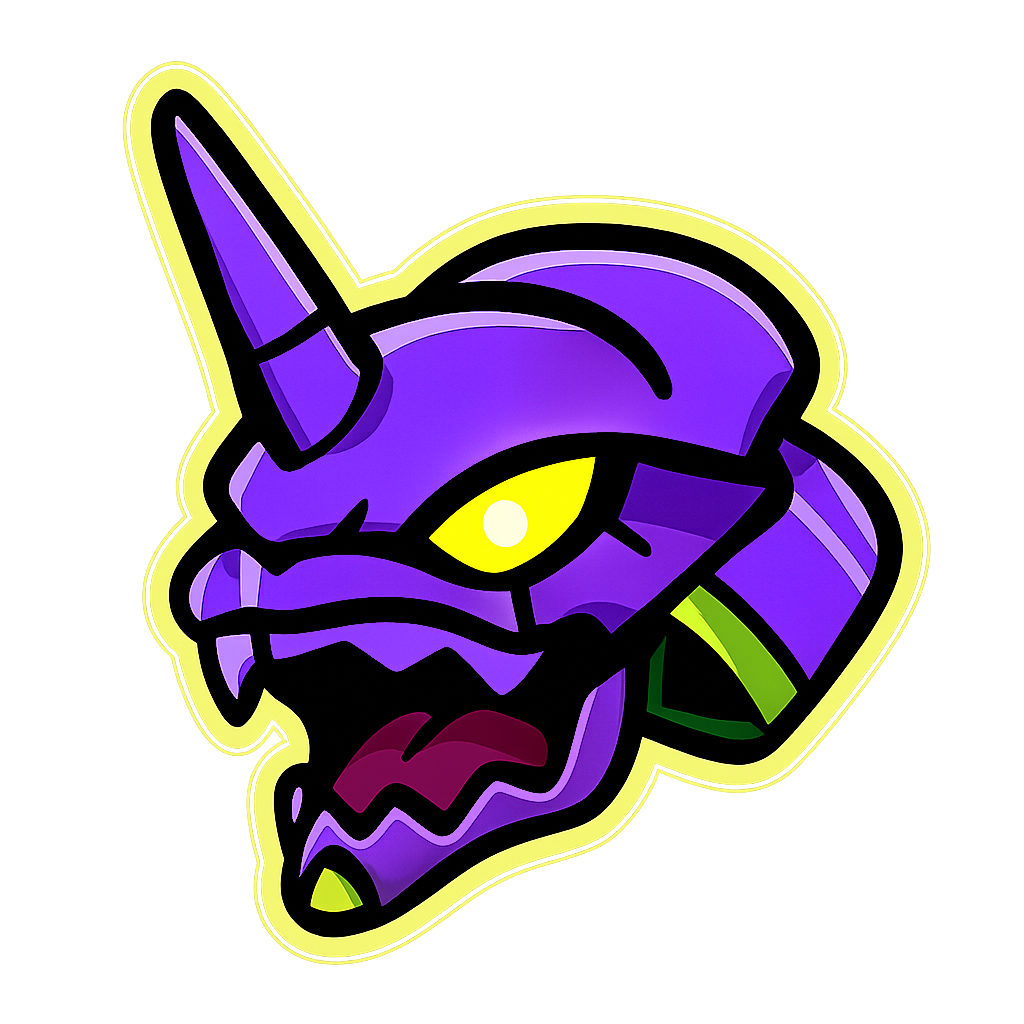
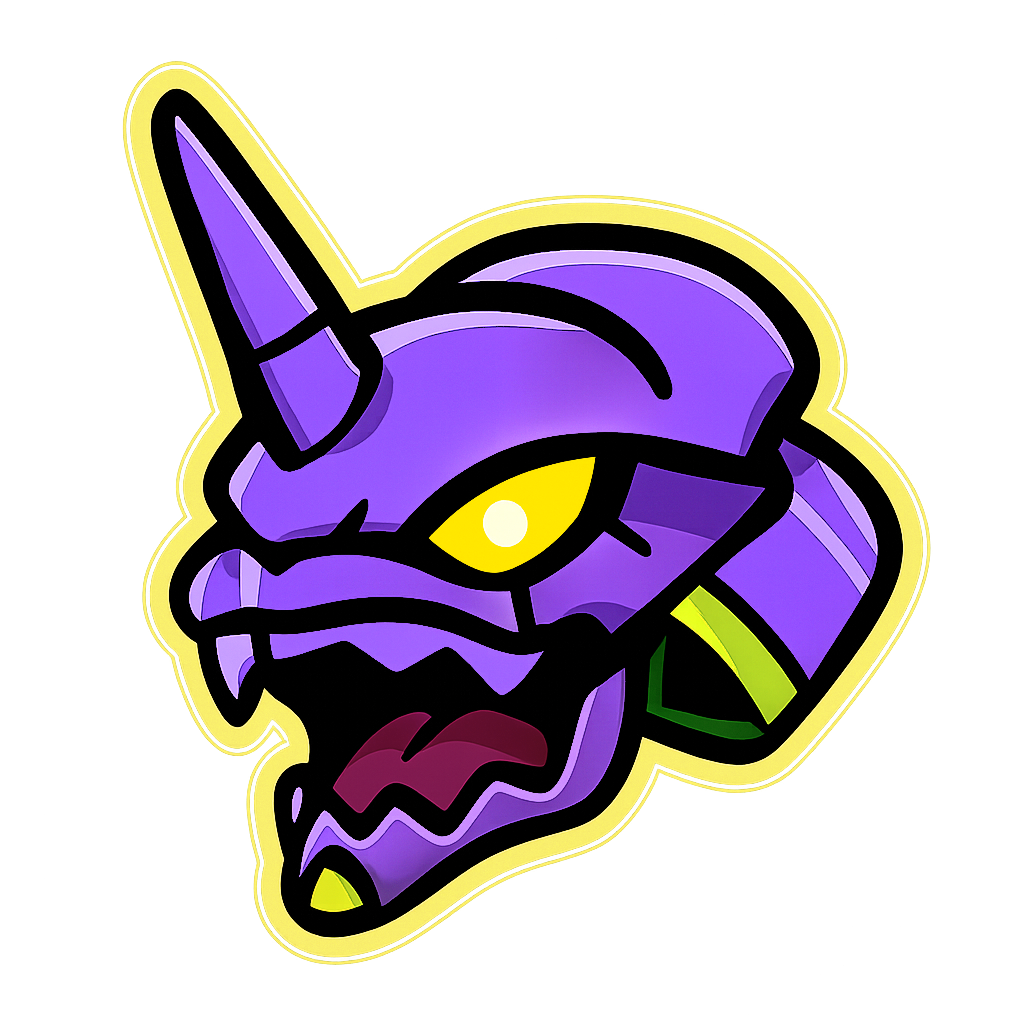
Match Eva b-frame colors to a-frame
Claude-Session: https://claude.ai/code/session_019QwctBLnb4UTXMJBnbargq

Changed region(s): [[0.1562, 0.125, 0.875, 0.7188], [0.2812, 0.6562, 0.625, 0.875]]

diff --git a/index.html b/index.html
@@ -1840,7 +1840,7 @@ const faceHTML = (e, who = 'suit') => FACE_ART[who][e] || FACE_ART.suit[e] || e;
 // 같은 그림이 여러 개 있어도 박자가 겹치지 않게 시작점을 흩뜨림
 // 그림을 다시 그려도 폰에 남은 옛 그림이 보이지 않게 주소에 버전을 붙임
 // 파일마다 내용이 바뀔 때만 새로 받도록 파일 해시를 붙임 (빌드할 때 채움)
-const ART_HASH = {"tile-gundam-a.png": "41a00219", "ind-school-a.png": "1b0fc977", "robot-cobot-cook-b.png": "3f739fa6", "tile-tool-a.png": "48c7dc89", "tile-made-a.png": "43e550a9", "ind-training-b.png": "0efc1d0b", "robot-qarm-a.png": "901f7afc", "tile-legs-b.png": "c0299b41", "tile-union-b.png": "b3a03a42", "face-cook-frown.png": "e01a4907", "face-cook-neutral.png": "71441525", "ind-battery-b.png": "6e2bd18d", "ind-fire-a.png": "a71484d3", "face-trump-neutral.png": "5aecac90", "tile-legs-a.png": "2faadad6", "face-worker-angry.png": "eb6b88ed", "ind-steel-a.png": "0f070238", "face-suitf-delight.png": "d729900f", "ind-steel-b.png": "e122612f", "ind-defense-b.png": "5aa959f1", "face-cook-angry.png": "50c65318", "ind-port-b.png": "6f5dc395", "tile-tf-a.png": "d2bc0939", "ind-factory-a.png": "909659fd", "tile-term-b.png": "fa8e5b3f", "face-neutral.png": "a9a959b5", "tile-wheel-a.png": "9e98ebac", "face-cook-smile.png": "be9219e0", "tile-korea-b.png": "1fcc2bd8", "face-trump-tear.png": "21d22245", "tile-auto-b.png": "bb58686e", "ind-material-b.png": "a8f27197", "tile-korea-a.png": "f7ec52b4", "tile-union-a.png": "d48507d4", "ind-auto-a.png": "9a8abf4f", "face-frown.png": "26865767", "robot-centaur-a.png": "a9e1e03b", "tile-auto-a.png": "e7100d25", "robot-cobot-cook-a.png": "2acb022c", "face-worker-tear.png": "940dcfc3", "ind-autoparts-b.png": "a5dbd76a", "face-suitf-angry.png": "5b24ceb5", "face-suitf-tear.png": "d0923069", "robot-centaur-b.png": "848f1932", "robot-mm-a.png": "e5da97cf", "ind-defense-a.png": "23a0651c", "robot-quad-a.png": "1e1384cf", "ind-autoparts-a.png": "26dcf7ce", "tile-eva-b.png": "ec3a9a4a", "face-cook-tear.png": "d529800c", "tile-gundam-b.png": "69722c17", "face-trump-delight.png": "e41c1f7d", "face-angry.png": "8542c3c5", "tile-floor-b.png": "7bfb4d09", "face-suitf-smile.png": "2bfa949d", "ind-material-a.png": "2c67685e", "tile-term-a.png": "f86a988f", "tile-eva-a.png": "48055f29", "tile-hum-a.png": "cdc85433", "ind-port-a.png": "0e5340b9", "ind-police-a.png": "717025fa", "wheel-tilt-ref.png": "4a1e31a2", "robot-cobot-a.png": "bb066d5e", "face-trump-angry.png": "6fc0cf6d", "tile-wheel-b.png": "df5d2104", "face-worker-neutral.png": "f4f1ff96", "robot-amr-a.png": "21455470", "face-delight.png": "4b63238d", "face-trump-frown.png": "4102f723", "robot-mm-b.png": "41cc89c7", "ind-fire-b.png": "c530534e", "ind-police-b.png": "750b1169", "ind-ess-b.png": "c7fac005", "ind-training-a.png": "a9fe00e5", "tile-tf-b.png": "23f3efda", "ind-aircraft-a.png": "53a6b218", "ind-school-b.png": "a14af652", "tile-arm-b.png": "6cb9dab3", "face-worker-delight.png": "56fdb189", "face-worker-smile.png": "7eaefd7c", "robot-quad-b.png": "9b27fe7b", "ind-chicken-a.png": "bd4bc4e3", "face-cook-delight.png": "5ceb20b0", "ind-battery-a.png": "2ead7359", "robot-agv-b.png": "397f8942", "face-tear.png": "7cacead6", "face-suitf-neutral.png": "b29259fe", "ind-auto-b.png": "f90715bb", "ind-shipyard-a.png": "7c43481e", "tile-tool-b.png": "c90763b3", "ind-factory-b.png": "b9dfaab4", "ind-chicken-b.png": "b4930a6b", "ind-shipyard-b.png": "098fdbae", "robot-qarm-b.png": "abd9a737", "tile-arm-a.png": "cd420a51", "tile-made-b.png": "5c6a705c", "tile-floor-a.png": "14074a30", "robot-cobot-weld-a.png": "da53987b", "robot-agv-a.png": "ee67b65c", "ind-logistics-b.png": "9c5aeeca", "face-smile.png": "786eeb95", "face-worker-frown.png": "0f8d8086", "robot-cobot-weld-b.png": "a9e69108", "robot-amr-b.png": "e23a5198", "tile-hum-b.png": "01ca7c8b", "ind-ess-a.png": "83fff111", "face-suitf-frown.png": "1236f440", "ind-aircraft-b.png": "6afa5f2a", "face-trump-smile.png": "03674df8", "robot-cobot-b.png": "7ea58bc1", "ind-logistics-a.png": "b1b04f38"};
+const ART_HASH = {"tile-gundam-a.png": "41a00219", "ind-school-a.png": "1b0fc977", "robot-cobot-cook-b.png": "3f739fa6", "tile-tool-a.png": "48c7dc89", "tile-made-a.png": "43e550a9", "ind-training-b.png": "0efc1d0b", "robot-qarm-a.png": "901f7afc", "tile-legs-b.png": "c0299b41", "tile-union-b.png": "b3a03a42", "face-cook-frown.png": "e01a4907", "face-cook-neutral.png": "71441525", "ind-battery-b.png": "6e2bd18d", "ind-fire-a.png": "a71484d3", "face-trump-neutral.png": "5aecac90", "tile-legs-a.png": "2faadad6", "face-worker-angry.png": "eb6b88ed", "ind-steel-a.png": "0f070238", "face-suitf-delight.png": "d729900f", "ind-steel-b.png": "e122612f", "ind-defense-b.png": "5aa959f1", "face-cook-angry.png": "50c65318", "ind-port-b.png": "6f5dc395", "tile-tf-a.png": "d2bc0939", "ind-factory-a.png": "909659fd", "tile-term-b.png": "fa8e5b3f", "face-neutral.png": "a9a959b5", "tile-wheel-a.png": "9e98ebac", "face-cook-smile.png": "be9219e0", "tile-korea-b.png": "1fcc2bd8", "face-trump-tear.png": "21d22245", "tile-auto-b.png": "bb58686e", "ind-material-b.png": "a8f27197", "tile-korea-a.png": "f7ec52b4", "tile-union-a.png": "d48507d4", "ind-auto-a.png": "9a8abf4f", "face-frown.png": "26865767", "robot-centaur-a.png": "a9e1e03b", "tile-auto-a.png": "e7100d25", "robot-cobot-cook-a.png": "2acb022c", "face-worker-tear.png": "940dcfc3", "ind-autoparts-b.png": "a5dbd76a", "face-suitf-angry.png": "5b24ceb5", "face-suitf-tear.png": "d0923069", "robot-centaur-b.png": "848f1932", "robot-mm-a.png": "e5da97cf", "ind-defense-a.png": "23a0651c", "robot-quad-a.png": "1e1384cf", "ind-autoparts-a.png": "26dcf7ce", "tile-eva-b.png": "b64d5546", "face-cook-tear.png": "d529800c", "tile-gundam-b.png": "69722c17", "face-trump-delight.png": "e41c1f7d", "face-angry.png": "8542c3c5", "tile-floor-b.png": "7bfb4d09", "face-suitf-smile.png": "2bfa949d", "ind-material-a.png": "2c67685e", "tile-term-a.png": "f86a988f", "tile-eva-a.png": "48055f29", "tile-hum-a.png": "cdc85433", "ind-port-a.png": "0e5340b9", "ind-police-a.png": "717025fa", "wheel-tilt-ref.png": "4a1e31a2", "robot-cobot-a.png": "bb066d5e", "face-trump-angry.png": "6fc0cf6d", "tile-wheel-b.png": "df5d2104", "face-worker-neutral.png": "f4f1ff96", "robot-amr-a.png": "21455470", "face-delight.png": "4b63238d", "face-trump-frown.png": "4102f723", "robot-mm-b.png": "41cc89c7", "ind-fire-b.png": "c530534e", "ind-police-b.png": "750b1169", "ind-ess-b.png": "c7fac005", "ind-training-a.png": "a9fe00e5", "tile-tf-b.png": "23f3efda", "ind-aircraft-a.png": "53a6b218", "ind-school-b.png": "a14af652", "tile-arm-b.png": "6cb9dab3", "face-worker-delight.png": "56fdb189", "face-worker-smile.png": "7eaefd7c", "robot-quad-b.png": "9b27fe7b", "ind-chicken-a.png": "bd4bc4e3", "face-cook-delight.png": "5ceb20b0", "ind-battery-a.png": "2ead7359", "robot-agv-b.png": "397f8942", "face-tear.png": "7cacead6", "face-suitf-neutral.png": "b29259fe", "ind-auto-b.png": "f90715bb", "ind-shipyard-a.png": "7c43481e", "tile-tool-b.png": "c90763b3", "ind-factory-b.png": "b9dfaab4", "ind-chicken-b.png": "b4930a6b", "ind-shipyard-b.png": "098fdbae", "robot-qarm-b.png": "abd9a737", "tile-arm-a.png": "cd420a51", "tile-made-b.png": "5c6a705c", "tile-floor-a.png": "14074a30", "robot-cobot-weld-a.png": "da53987b", "robot-agv-a.png": "ee67b65c", "ind-logistics-b.png": "9c5aeeca", "face-smile.png": "786eeb95", "face-worker-frown.png": "0f8d8086", "robot-cobot-weld-b.png": "a9e69108", "robot-amr-b.png": "e23a5198", "tile-hum-b.png": "01ca7c8b", "ind-ess-a.png": "83fff111", "face-suitf-frown.png": "1236f440", "ind-aircraft-b.png": "6afa5f2a", "face-trump-smile.png": "03674df8", "robot-cobot-b.png": "7ea58bc1", "ind-logistics-a.png": "b1b04f38"};
 // 게임에서는 가벼운 webp(assets/w/)를 씀. 파일 이름은 png와 같고 확장자만 다름
 const av = f => { const n = f.replace('assets/', ''); return `assets/w/${n.replace(/\.png$/, '.webp')}?v=${ART_HASH[n] || '0'}`; };
 // 업종 아이콘(ind-)은 a프레임만, 로봇·부품은 a·b를 번갈아 (팔이 까딱, 다리가 제자리걸음 등)
@@ -2173,7 +2173,7 @@ function banner(text, delay) {
 }
 
 // ───────── 진행 ─────────
-const BUILD_V = '1003-162141';
+const BUILD_V = '1003-162242';
 function loop(t) {
   const dt = Math.min(0.1, (t - (S.last || t)) / 1000);
   S.last = t;
